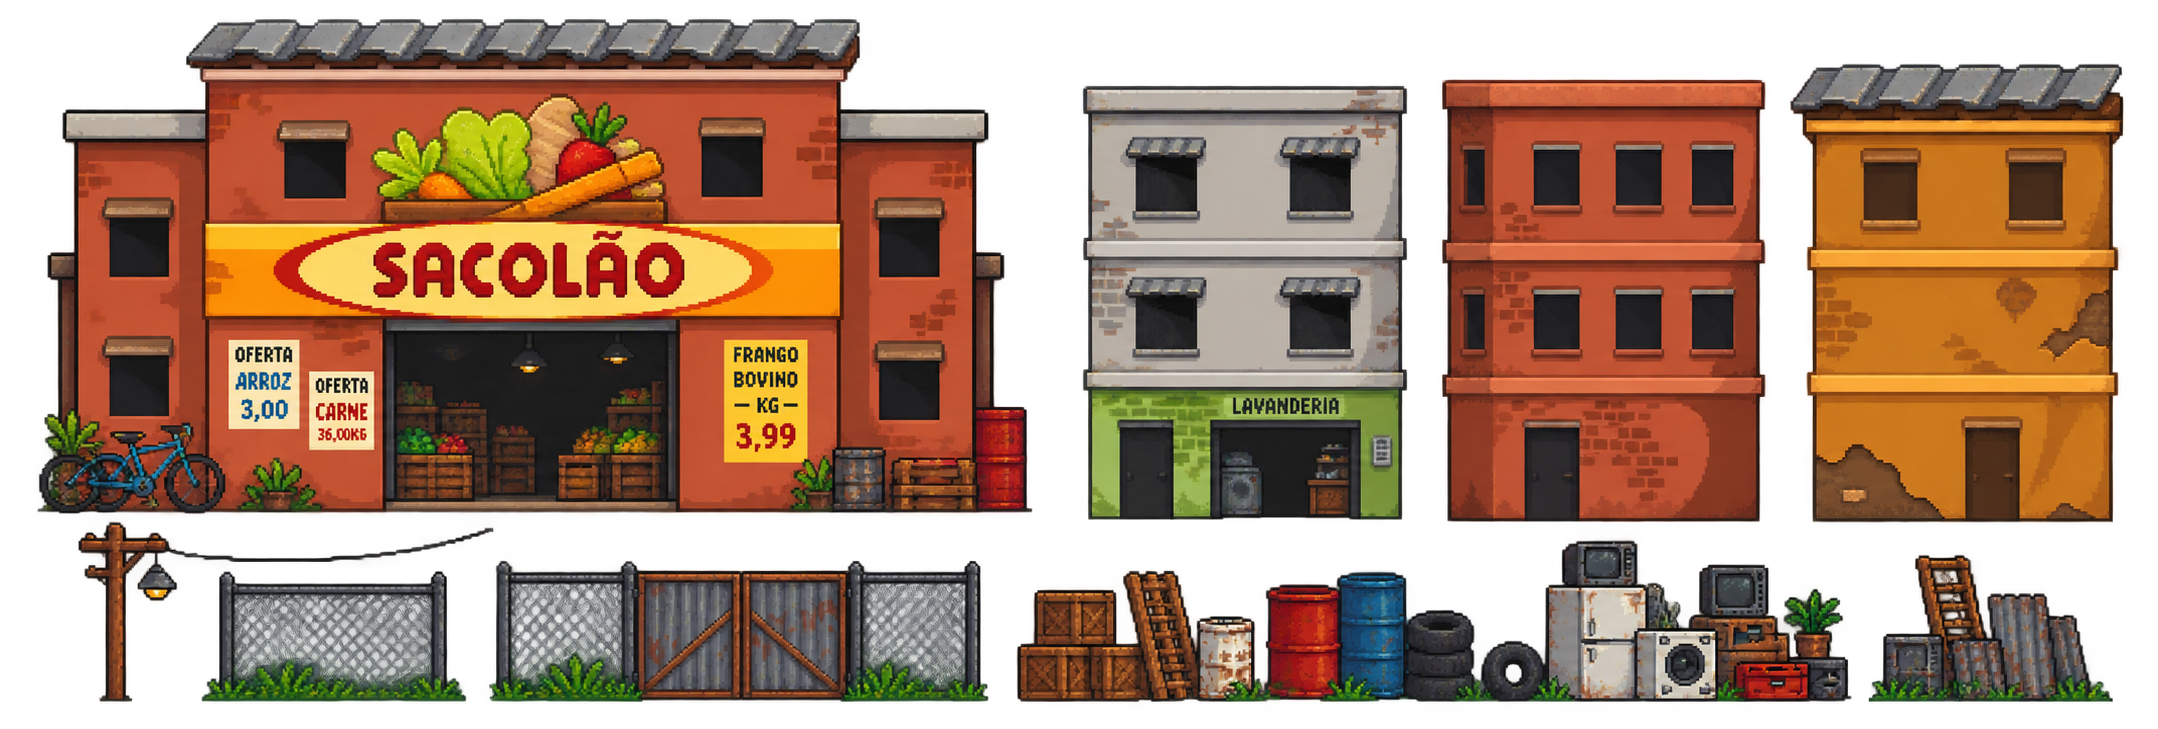
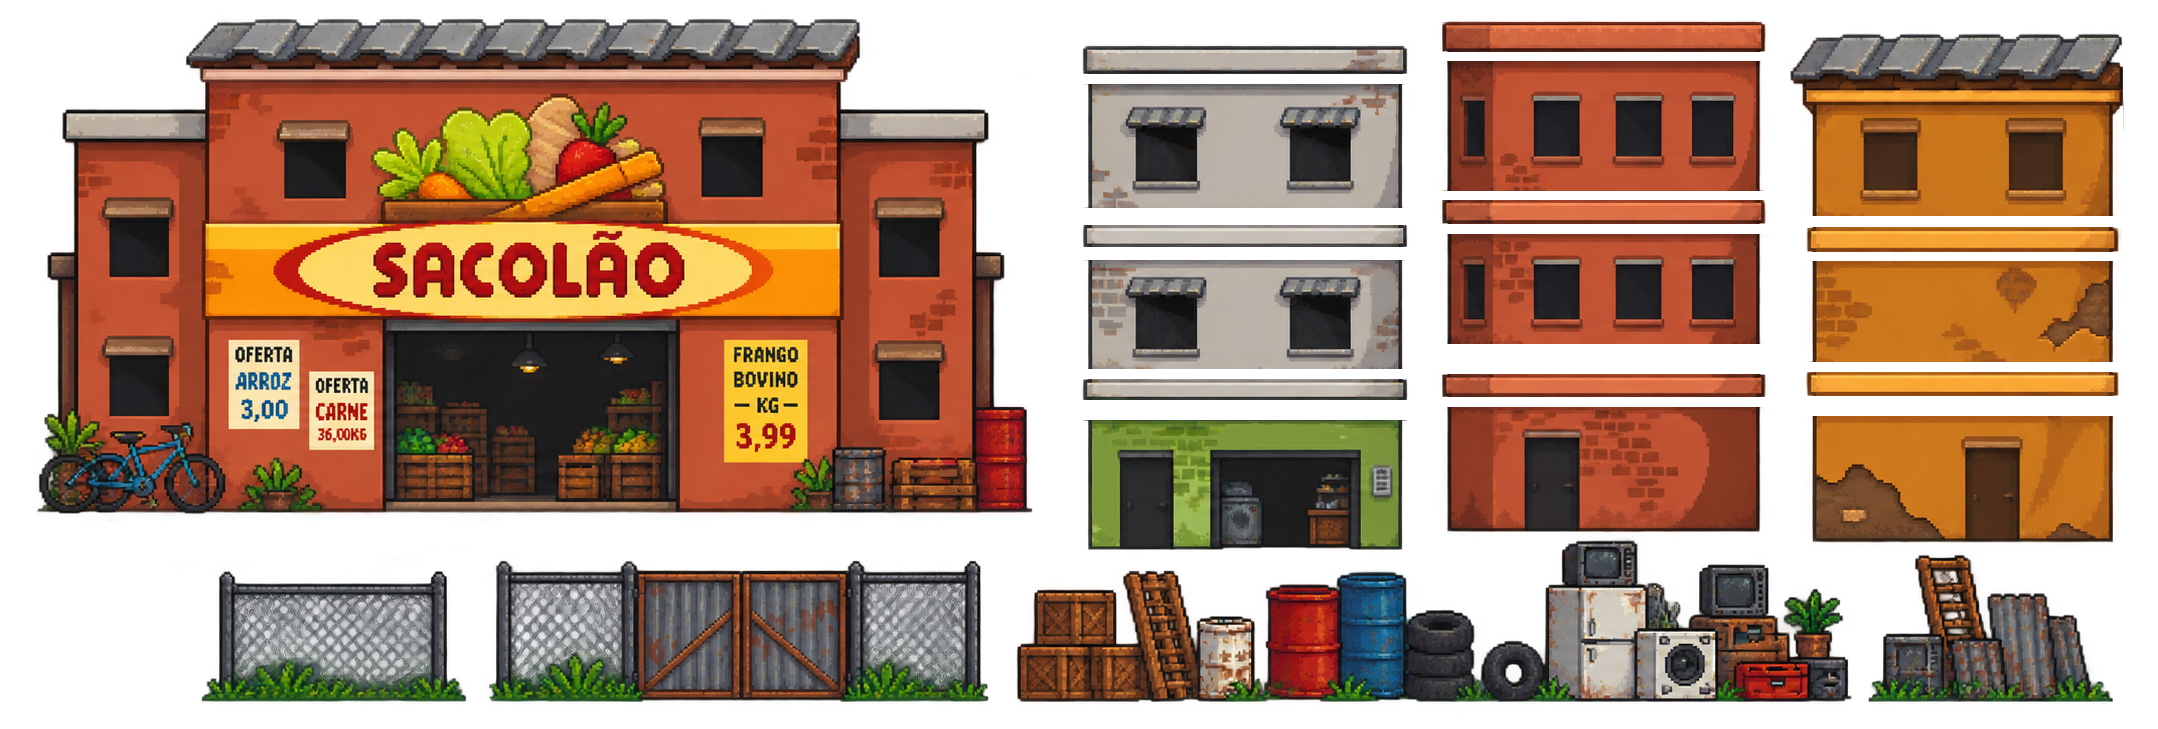
Restore cut scenery and supermarket entrance

Changed region(s): [[0.4968, 0.0302, 0.9935, 0.7545], [0.031, 0.7243, 0.1863, 0.9657], [0.1863, 0.7243, 0.2173, 0.7545]]

diff --git a/src/market.js b/src/market.js
@@ -46,19 +46,10 @@
       this.level={index:0,width:480,height:270,platforms:[{x:0,y:224,w:480,h:70}],items:[],enemies:[]};this.bags=[];
       Object.assign(this.player,{x:45,y:197,vx:0,vy:0,grounded:false,slide:0,jumps:0,shoot:0,inv:1});
       if(scene==='street'){
-        const assets=typeof EaiAssets==='undefined'?null:EaiAssets,markers=assets?.layoutMarkers||{},layout=assets?.images?.['scenery:marketLayout'],scale=.5,top=400;
-        this.level.width=(layout?.width||6000)*scale;
-        const ledges=(markers.platforms||[]).filter(m=>m.y>=top&&m.y<top+448).map(m=>({x:m.x*scale,y:(m.y-top)*scale,w:m.w*scale,h:8}));
-        const slingMarker=(markers.items||[]).find(m=>m.y<top&&m.x>(layout?.width||6000)*.35&&m.x<(layout?.width||6000)*.5);
-        const slingX=slingMarker?slingMarker.x*scale:345,bridgeX=clamp(slingX-55,0,this.level.width-125);
-        this.level.platforms=[{x:0,y:224,w:this.level.width,h:70},...ledges,{x:bridgeX,y:154,w:125,h:8,marketBridge:true}];
-        const markerItems=(markers.items||[]).filter(m=>m.y>=top&&m.y<top+448);
-        this.level.items=[...(!this.slingshot?[item('street-sling','slingshot',clamp(slingX,this.level.width*.2,this.level.width-28),43)]:[]),item('street-flag-1','flag',180,150),item('street-flag-2','flag',1450,95),item('street-flag-far','flag',this.level.width-230,120),item('street-juice','juice',570,207),item('street-juice-middle','juice',this.level.width*.56,207),item('street-juice-last','juice',this.level.width*.86,207)];
-        for(const [i,m]of markerItems.entries())this.level.items.push(item('street-layout-item-'+i,'can',m.x*scale+m.w*scale/2-6,clamp((m.y+m.h/2-top)*scale-7,8,207)));
-        const enemyMarkers=(markers.enemies||[]).filter(m=>m.y>=top&&m.y<top+500);
-        this.level.enemies=enemyMarkers.map(m=>{const e=rival(m.x*scale+m.w*scale/2-8);e.y=clamp((m.y+m.h-top)*scale-e.h,80,198);return e;});
-        if(!this.level.enemies.length)this.level.enemies=[rival(770*this.level.width/4600),rival(1530*this.level.width/4600),rival(2290*this.level.width/4600),rival(3030*this.level.width/4600)];
-        this.bags=[.16,.30,.45,.62,.76,.9].map(v=>trash(this.level.width*v));
+        this.level.width=4600;const ledges=[];for(let block=0;block<10;block++){const x=block*420;ledges.push([x+3,168,107],[x+110,170,158],[x+110,123,158],[x+270,151,132]);}this.level.platforms=[{x:0,y:224,w:this.level.width,h:70},...ledges.map(([x,y,w])=>({x,y,w,h:8}))];
+        this.level.items=[...(!this.slingshot?[item('street-sling','slingshot',315,123)]:[]),item('street-flag-1','flag',207,137),item('street-flag-2','flag',2440,73),item('street-flag-far','flag',3900,60),item('street-juice','juice',1010,207),item('street-juice-middle','juice',2360,207),item('street-juice-last','juice',3670,207)];
+        for(const [i,x]of [100,185,230,320,465,590,670,940,1080,1230,1390,1620,1810,2030,2220,2470,2670,2880,3060,3330,3540,3780,3970,4150].entries())this.level.items.push(item('street-can-'+i,'can',x,x<700?(x<150?207:x<300?168:x<465?137:x<625?112:84):x>4150?107:x%2?142:198));
+        this.level.enemies=[rival(770),rival(1120),rival(1530),rival(1910),rival(2290),rival(2670),rival(3030),rival(3530),rival(4000)];this.bags=[trash(735),trash(1090),trash(1495),trash(1850),trash(2385),trash(2970),trash(3540),trash(4110)];
         if(returning&&this.sceneCache.street){this.level=this.sceneCache.street.level;this.bags=this.sceneCache.street.bags;}
         if(returning){this.player.x=520;this.player.y=197;}
       }else if(scene==='sewer'){
@@ -230,7 +221,7 @@
       const p=this.player;if(!input.interact||this.prev.interact)return;
       if(this.scene==='street'){
         if(Math.abs(p.x-880)<50&&p.y>165){this.enter('sewer');return;}
-        if(p.x>this.level.width-160){if(!this.slingshot){this.hint('O Sacolão está fechado! Volte à laje e pegue o badogue.');return;}this.enter('cart');this.setCheckpoint(false);return;}
+        if(p.x>this.level.width-330){if(!this.slingshot){this.hint('O Sacolão está fechado! Volte à laje e pegue o badogue.');return;}this.enter('cart');this.setCheckpoint(false);return;}
       }
       if(this.scene==='sewer'&&p.x>60&&p.x<220&&p.y<175){this.enter('street',true);return;}
       if(this.scene==='unloading'&&this.stageTime>=22&&p.x>390){this.enter('garage');this.setCheckpoint(true);}

diff --git a/src/market-art.js b/src/market-art.js
@@ -88,10 +88,20 @@
   const objectSizes={trash:[26,32],slingshot:[28,30],cart:[48,40],truck:[48,88],'truck-side':[90,38],expired:[12,15],mariana:[32,40],neymar:[28,40],'red-banner':[36,46]};
   function obj(g,id,x,y,w,h){if(EaiAssets.draw(g,'market:'+id,x,y,w,h))return;g.save();g.translate(x,y);g.scale(w/objectSizes[id][0],h/objectSizes[id][1]);objectRaw(g,id);g.restore();}
   function background(g,scene){if(EaiAssets.draw(g,'market:'+scene+'-bg',0,0,...sceneSizes[scene]))return;backgroundRaw(g,scene);}
-  const STREET_SCALE=.5,STREET_TOP=400,STREET_HEIGHT=448;
   function streetLandmarks(g){
-    const im=EaiAssets.images['scenery:marketLayout'];if(!im)return false;
-    g.drawImage(im,0,STREET_TOP,im.width,STREET_HEIGHT,0,0,im.width*STREET_SCALE,STREET_HEIGHT*STREET_SCALE);return true;
+    const draw=(id,box,x,y,w,h)=>{const im=EaiAssets.images['scenery:'+id];if(im)g.drawImage(im,...box,x,y,w,h);};
+    // Fachadas recortadas dos assets originais, organizadas sem usar o pack de referência.
+    for(let block=0;block<10;block++){
+      const x=block*420;
+      draw('favelaSheet',[14,244,275,326],x,94,110,130);
+      draw('favelaSheet',[299,245,396,442],x+110,46,158,178);
+      draw('favelaSheet',[750,24,330,190],x+270,148,132,76);
+    }
+    draw('marketSheet',[1080,42,348,505],3320,4,150,220);
+    draw('marketSheet',[1430,18,350,525],3500,4,147,220);
+    draw('marketSheet',[1785,24,370,520],3685,4,156,220);
+    // A fachada completa mantém a entrada do Sacolão visível no fim da rua.
+    draw('marketSheet',[25,0,1005,515],4150,2,430,222);
   }
   function parallax(g,camera){
     const im=EaiAssets.images['scenery:marketParallax'];if(!im)return;
@@ -133,13 +143,13 @@
     else R(g,0,0,480,270,'#243c32');
     g.save();g.translate(-Math.floor(w.camera),-Math.floor(w.cameraY));
     if(w.scene!=='street')background(g,w.scene==='rescue'?'garage':w.scene==='garage'?'garage-yard':w.scene);
-    if(w.scene==='street'){streetLandmarks(g);streetGround(g,w);}
-    if(!['cart','unloading','rescue','garage'].includes(w.scene))for(const p of w.level.platforms){if(p.x+p.w<w.camera||p.x>w.camera+480)continue;if(w.scene==='street'){if(p.marketBridge)EaiAssets.tile(g,'platform',p.x,p.y,p.w,p.h,20);continue;}EaiAssets.tile(g,p.h>20?'ground':'platform',p.x,p.y,p.w,p.h,p.h>20?24:20);}
+    if(w.scene==='street'){streetPosts(g,w);streetLandmarks(g);streetGround(g,w);}
+    if(!['cart','unloading','rescue','garage'].includes(w.scene))for(const p of w.level.platforms){if(p.x+p.w<w.camera||p.x>w.camera+480)continue;if(w.scene==='street')continue;EaiAssets.tile(g,p.h>20?'ground':'platform',p.x,p.y,p.w,p.h,p.h>20?24:20);}
     if(w.scene==='street'){
       R(g,858,222,46,4,'#273f36');for(let x=860;x<902;x+=6)R(g,x,223,2,3,'#90a58b');T(g,'↓ ACESSO AO ESGOTO',880,211,6,'#e7dcac','center');
-      T(g,'BADOQUE ↑',Math.min(1285,w.level.width-60),28,7,'#ffe6a0','center');
+      T(g,'BADOQUE ↑',345,106,7,'#ffe6a0','center');
       if(Math.abs(w.player.x-880)<70)portal(g,859,181,'ESGOTO');
-      if(w.player.x>w.level.width-190)portal(g,w.level.width-150,178,w.slingshot?'E • ENTRAR':'BADOQUE',w.slingshot?'#c6e098':'#ef9674');
+      if(w.player.x>w.level.width-330)portal(g,w.level.width-285,178,w.slingshot?'E • SACOLÃO':'BADOQUE',w.slingshot?'#c6e098':'#ef9674');
     }
     if(w.scene==='sewer'){portal(g,98,110,'VOLTAR À RUA');obj(g,'trash',18,540,24,28);}
     for(const it of w.level.items){if(it.taken)continue;const y=it.y+Math.sin(t*3+it.x)*2;

diff --git a/src/assets.js b/src/assets.js
@@ -9,27 +9,9 @@
   for(const [theme,scene] of Object.entries(config.scenes))for(const [part,src] of Object.entries(scene))if(typeof src==='string')entries.push([theme+':'+part,src]);
   for(const [id,src] of Object.entries(config.objects))entries.push([id,src]);
   for(const [id,src] of Object.entries(config.market||{}))entries.push(['market:'+id,src]);
-  const layoutMarkers={platforms:[],items:[],enemies:[]};
-  function prepareMarketLayout(img){
-    const canvas=document.createElement('canvas');canvas.width=img.naturalWidth;canvas.height=img.naturalHeight;
-    const g=canvas.getContext('2d',{willReadFrequently:true});g.drawImage(img,0,0);const frame=g.getImageData(0,0,canvas.width,canvas.height),pixels=frame.data,total=canvas.width*canvas.height,seen=new Uint8Array(total),queue=new Int32Array(total);
-    const category=i=>{const p=i*4,r=pixels[p],v=pixels[p+1],b=pixels[p+2];return v>245&&r<24&&b<48?1:b>240&&r<85&&v<30?2:r>240&&v<35&&b<35?3:0;};
-    for(let i=0;i<total;i++){const kind=category(i);if(!kind)continue;pixels[i*4+3]=0;if(seen[i])continue;
-      let head=0,tail=0,minX=canvas.width,maxX=0,minY=canvas.height,maxY=0,area=0;queue[tail++]=i;seen[i]=1;
-      while(head<tail){const n=queue[head++],x=n%canvas.width,y=(n-x)/canvas.width;area++;minX=Math.min(minX,x);maxX=Math.max(maxX,x);minY=Math.min(minY,y);maxY=Math.max(maxY,y);
-        const add=m=>{if(m<0||m>=total||seen[m]||category(m)!==kind)return;seen[m]=1;pixels[m*4+3]=0;queue[tail++]=m;};
-        if(x)add(n-1);if(x+1<canvas.width)add(n+1);if(y)add(n-canvas.width);if(y+1<canvas.height)add(n+canvas.width);
-      }
-      const box={x:minX,y:minY,w:maxX-minX+1,h:maxY-minY+1,area};
-      if(kind===1&&area>220&&box.w>24)layoutMarkers.platforms.push(box);
-      else if(kind===2&&area>60)layoutMarkers.items.push(box);
-      else if(kind===3&&area>160&&box.h>14)layoutMarkers.enemies.push(box);
-    }
-    g.putImageData(frame,0,0);return canvas;
-  }
   const ready=Promise.all(entries.map(([id,src])=>new Promise(resolve=>{
     const img=new Image();
-    img.onload=()=>{images[id]=id==='scenery:marketLayout'?prepareMarketLayout(img):img;resolve();};
+    img.onload=()=>{images[id]=img;resolve();};
     img.onerror=()=>{errors.push(src);console.warn('Asset indisponível; usando desenho de reserva:',src);resolve();};
     img.src='assets/jogo/'+src;
   })));
@@ -53,5 +35,5 @@
     return true;
   }
   function tile(g,id,x,y,w,h,tileWidth){const img=images[id];if(!img)return false;for(let off=0;off<w;off+=tileWidth){const width=Math.min(tileWidth,w-off);g.drawImage(img,0,0,img.naturalWidth*width/tileWidth,img.naturalHeight,x+off,y,width,h);}return true;}
-  window.EaiAssets={config,images,errors,ready,layoutMarkers,draw,sheet,tile,character};
+  window.EaiAssets={config,images,errors,ready,draw,sheet,tile,character};
 })();

diff --git a/assets/jogo/config.js b/assets/jogo/config.js
@@ -29,9 +29,12 @@ window.EaiAssetConfig = {
   objects: {ground:'objetos/chao.png',platform:'objetos/plataforma.png',crate:'objetos/caixa.png',can:'objetos/latinha.png',juice:'objetos/suco.png',bread:'objetos/sonho.png',fruit:'objetos/fruta.png',cat:'objetos/juca.png'}
 };
 window.EaiAssetConfig.scenery = {
-  marketLayout:'../personagens/packcasas_fase1.png',
+  marketSheet:'../personagens/assets cenario fase1.png',
+  favelaSheet:'../personagens/assets cenario2-1 fase1.png',
+  stallsSheet:'../personagens/assets cenario3 fase1.png',
   marketParallax:'../personagens/assetsparallax.png',
   marketGround:'../personagens/assets_chao.png',
+  streetPosts:'../personagens/assetspostes.png',
   schoolInterior:'../personagens/assets fase 2.png'
 };
 // Novas áreas do Mercado. PNG e WebP podem ser usados nesses mesmos caminhos.
